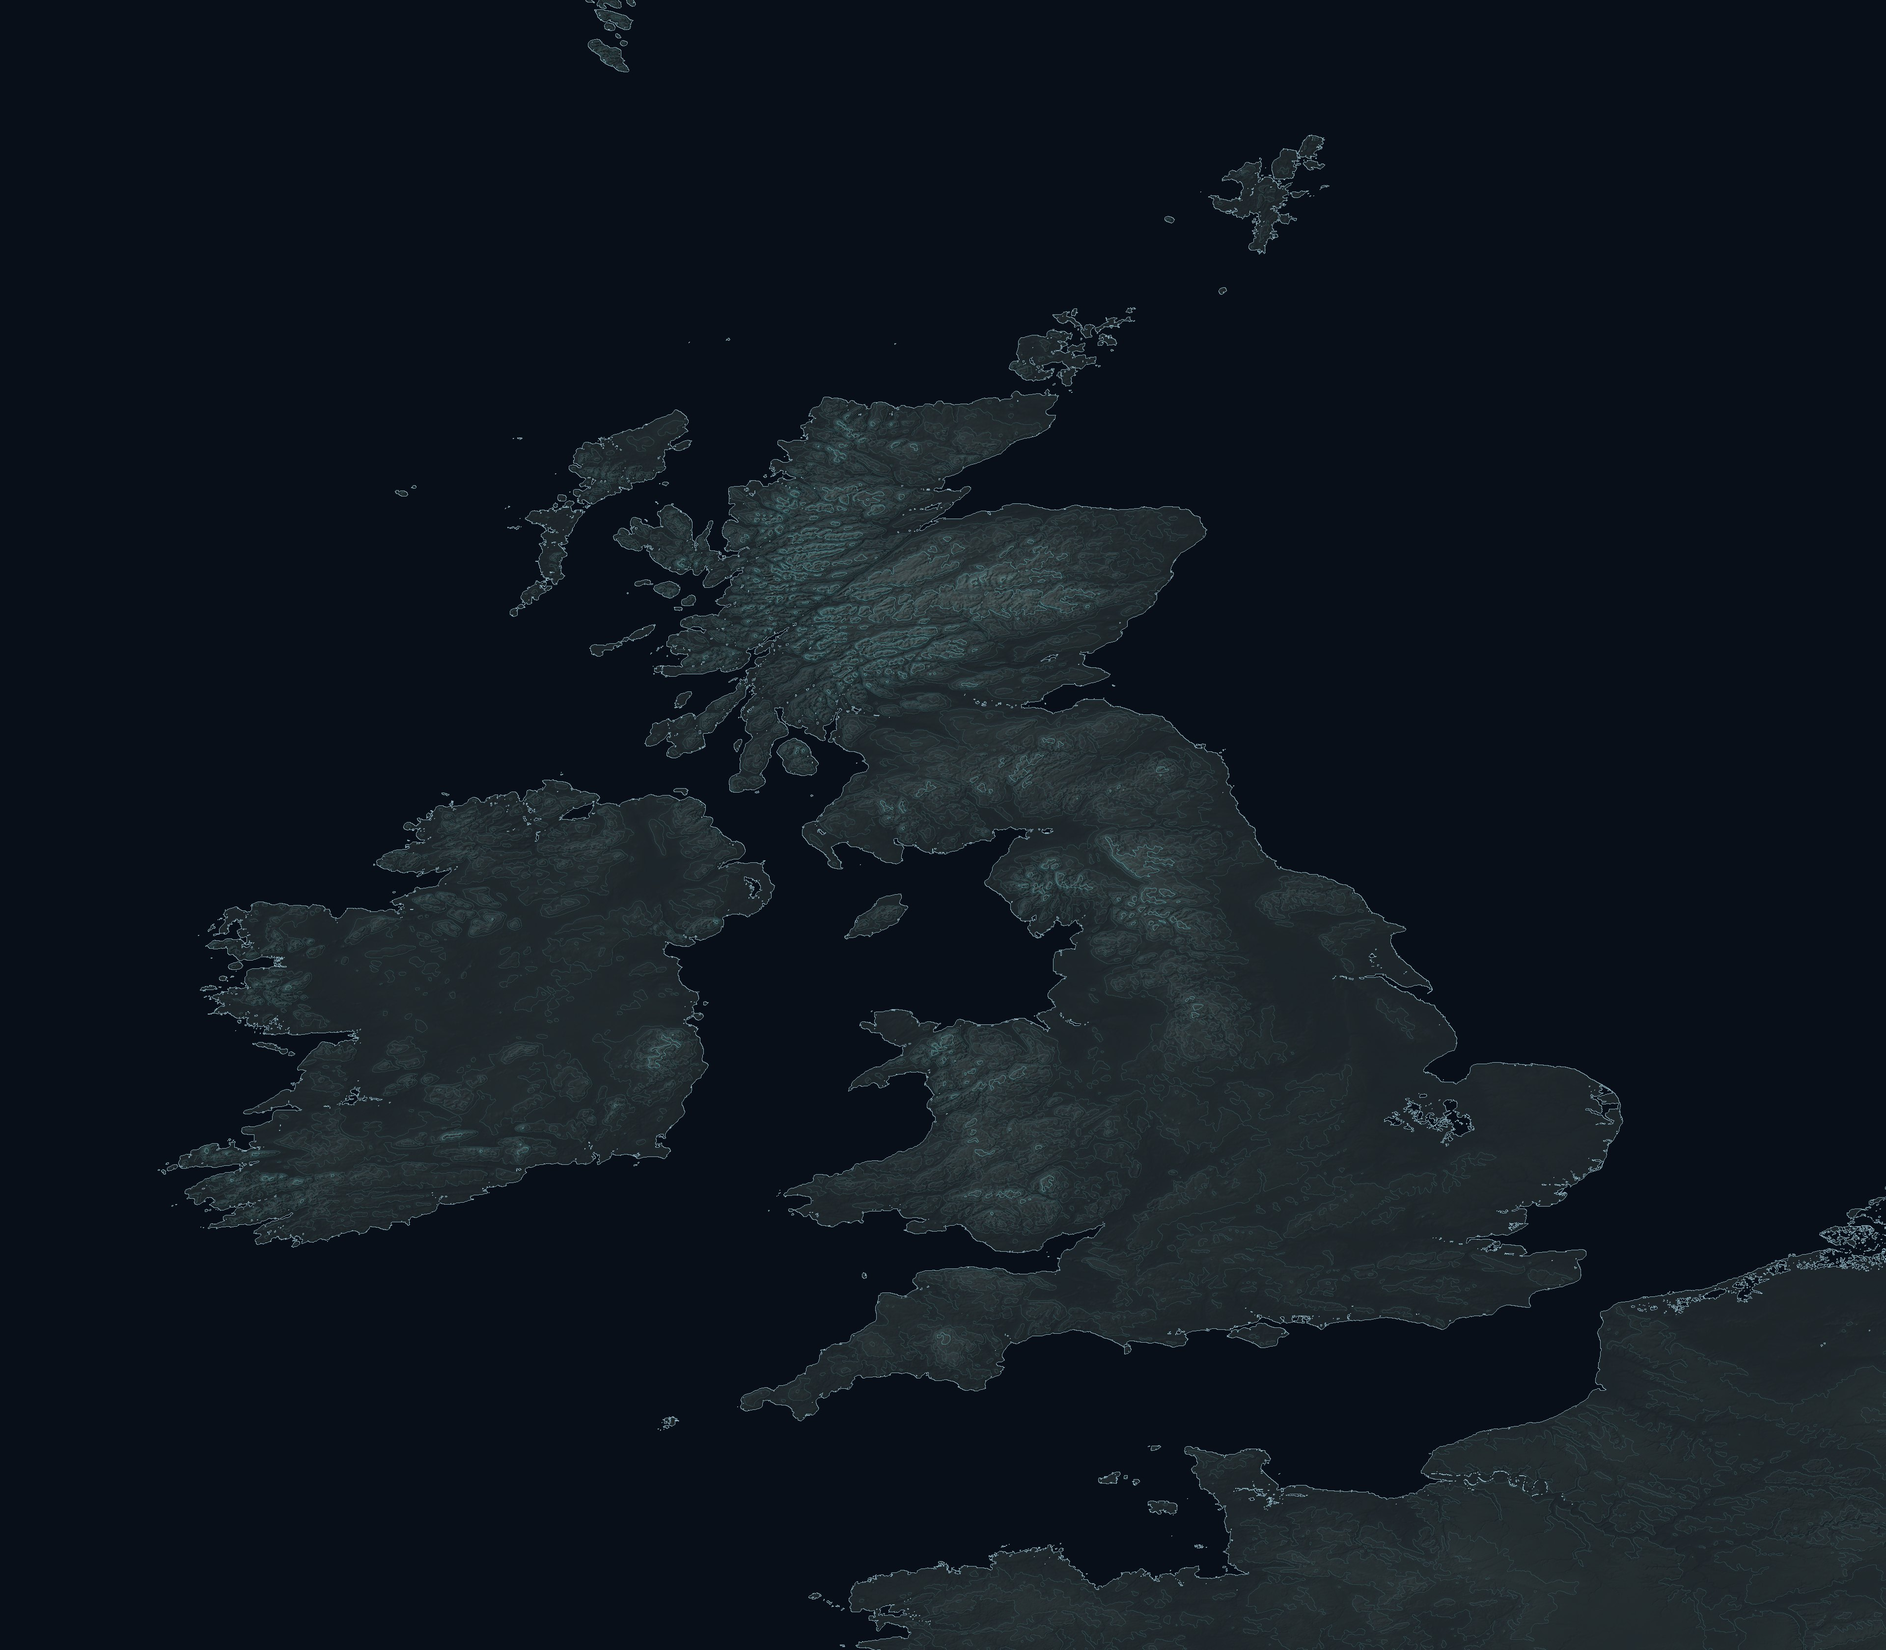
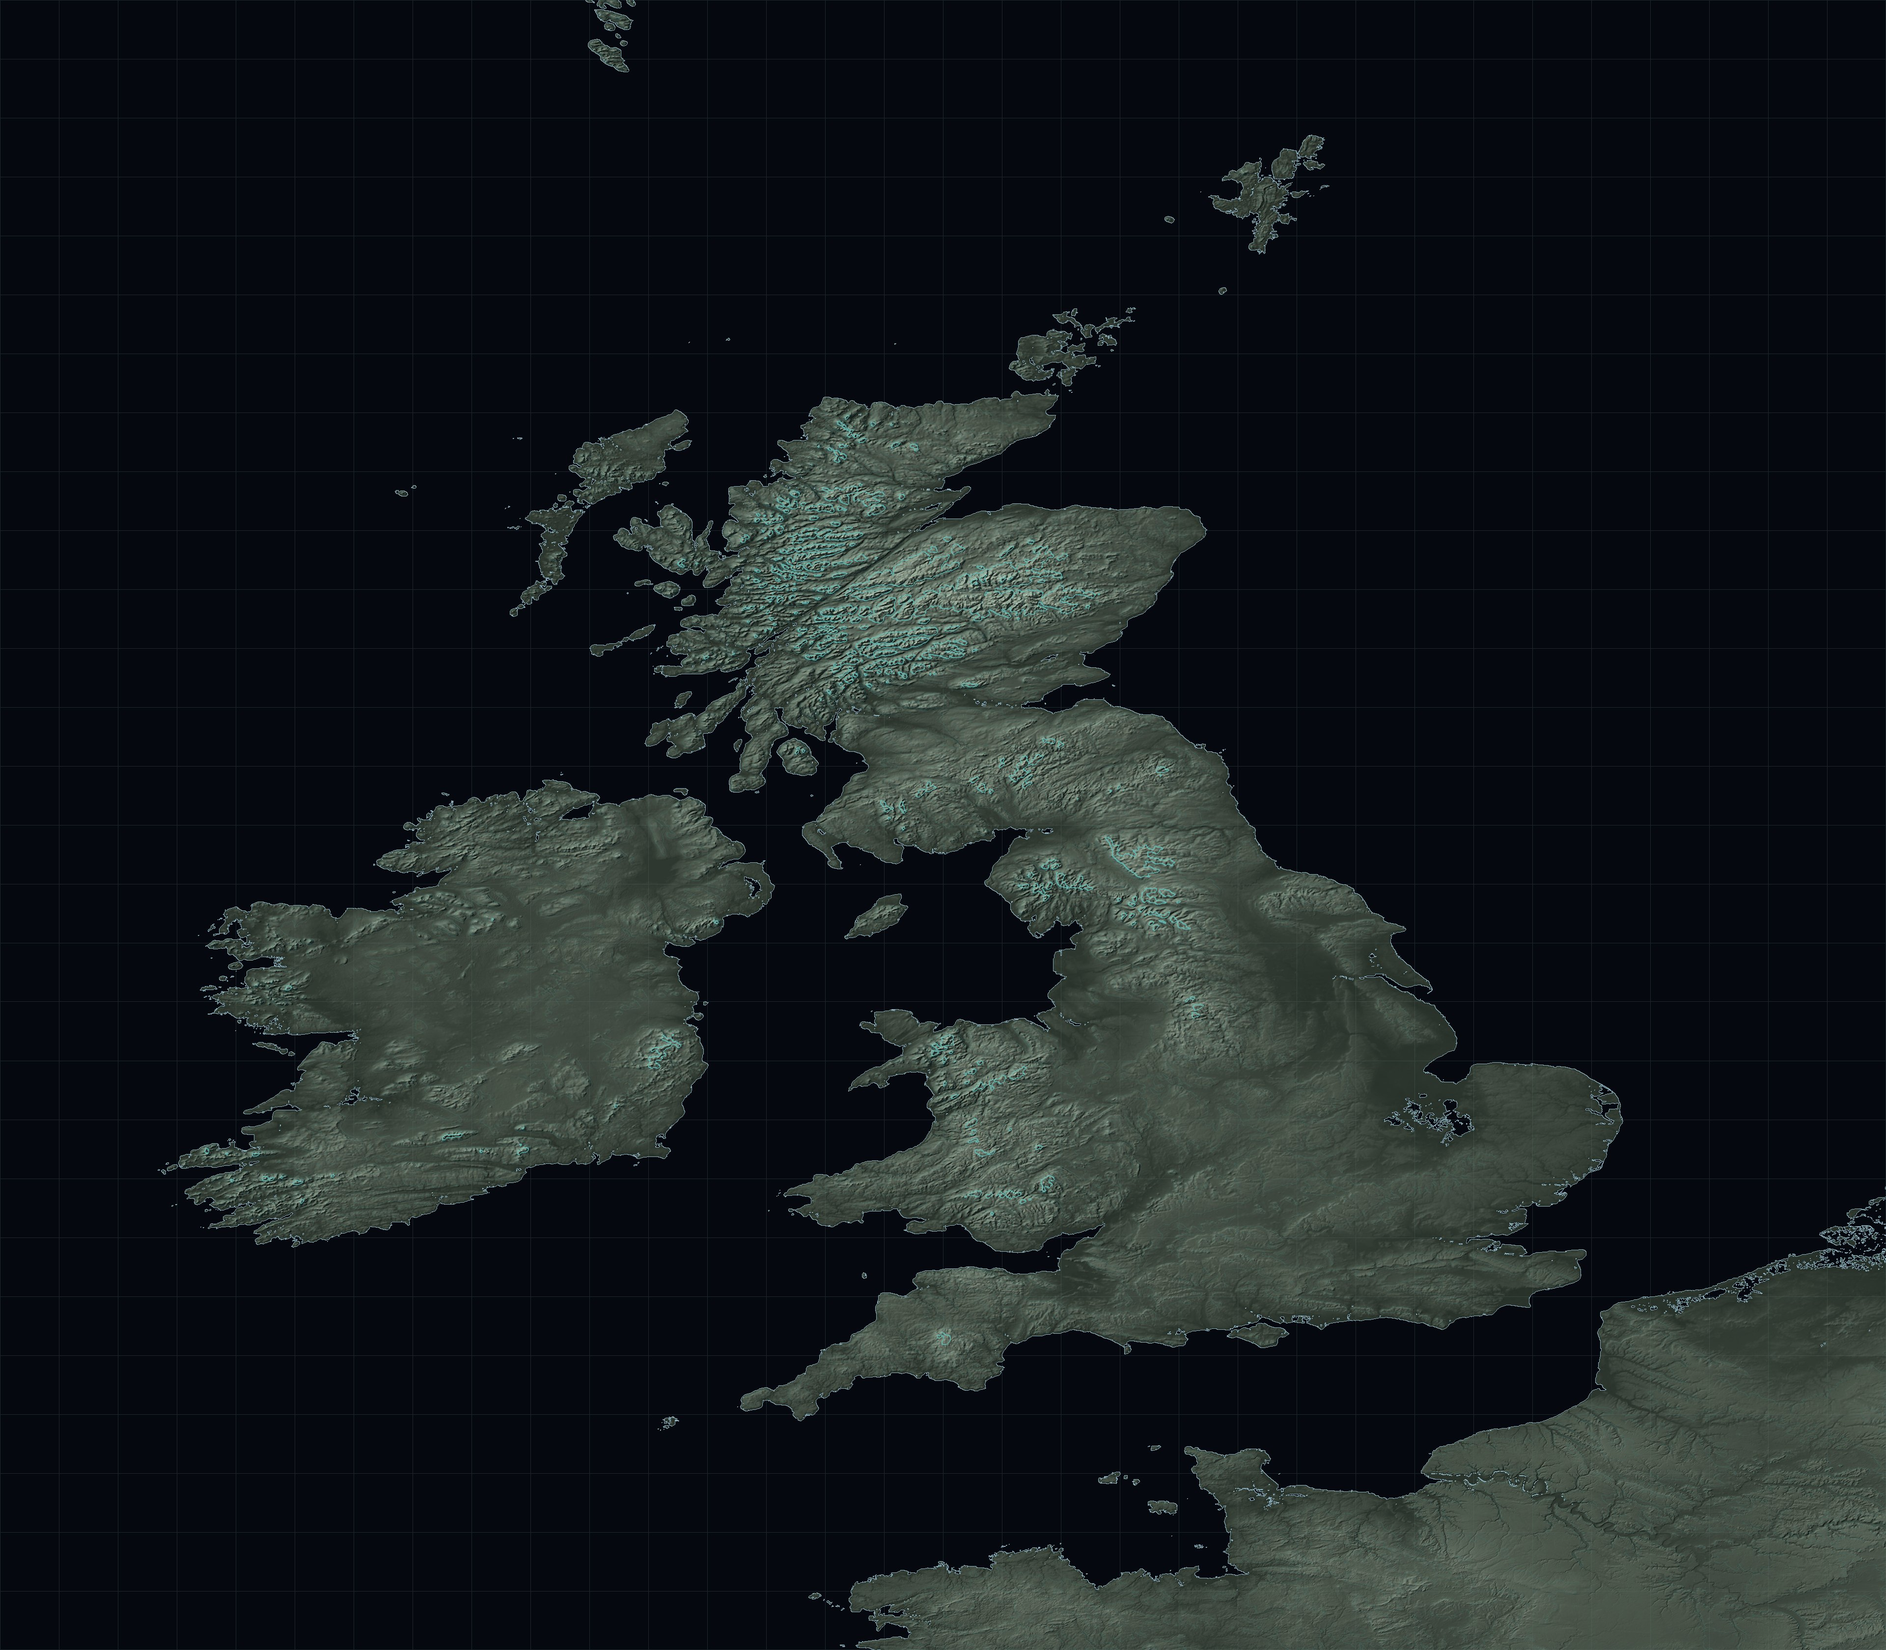
feat(heimdall): live traffic overlay; stronger tactical relief
- TRAFFIC chip: TomTom Traffic Flow (free key from VITE_TOMTOM_KEY in the git-ignored
  .env.local), zoom 7 tiles reprojected over the terrain box as for the rain radar and
  refreshed every 5 minutes while on; roads coloured by speed against free flow (green
  flowing, orange slow, red queuing), over the road lines, which fade while it shows.
- The tactical relief has deeper shadows and brighter lit slopes (z-factor 4.5), an
  olive-slate palette rising with height, bold index contours every 500 m and a faint
  half-degree reference grid. [FR-H-1] [FR-P3-3]

diff --git a/products/heimdall/ui/src/screens/OperatingPictureScreen.tsx b/products/heimdall/ui/src/screens/OperatingPictureScreen.tsx
@@ -22,6 +22,7 @@ import { AREA_LEGEND, BANDS, KIND_LEGEND, areaColour, bandOf, colourOf, isFixedK
 import { useStatus } from '../app/status';
 import { AlertsBell, AlertsDrawer, agoText } from '../app/alerts';
 import { radarLabel, useRadar, RADAR_BOX } from '../app/radar';
+import { trafficLabel, useTraffic } from '../app/traffic';
 import { useWatchlist, type Watchlist } from '../app/watchlist';
 import { AreaLayer, ToolLayer } from '../app/MapOverlays2D';
 import type { LatLon } from '../app/geoMath';
@@ -67,7 +68,7 @@ const HYDRO_2D = (() => {
 /** The map style the 3D view stores (tactical unless set otherwise). */
 const mapStyle2d = () => { try { const v = window.localStorage.getItem('heimdall.globe.imagery'); return v === 'satellite' || v === 'dark' ? v : 'tactical'; } catch { return 'tactical'; } };
 
-function Basemap({ region, radarUrl }: { region: HeimdallRegion; radarUrl?: string }) {
+function Basemap({ region, radarUrl, trafficUrl }: { region: HeimdallRegion; radarUrl?: string; trafficUrl?: string }) {
   const { west, east, south, north } = region;
   const lons: number[] = [];
   const lats: number[] = [];
@@ -101,6 +102,10 @@ function Basemap({ region, radarUrl }: { region: HeimdallRegion; radarUrl?: stri
       <path d={HYDRO_2D.motorways} fill="none" stroke="#3b82e0" strokeWidth={2.6} vectorEffect="non-scaling-stroke" />
       <path d={HYDRO_2D.rail} fill="none" stroke="#111" strokeOpacity={0.9} strokeWidth={3} vectorEffect="non-scaling-stroke" />
       <path d={HYDRO_2D.rail} fill="none" stroke="#f2f2f2" strokeWidth={1.4} strokeDasharray="5 5" vectorEffect="non-scaling-stroke" />
+      {/* Live traffic (TomTom), over the road lines. [FR-H-1] */}
+      {trafficUrl && (
+        <image href={trafficUrl} x={RADAR_BOX.west} y={-RADAR_BOX.north} width={RADAR_BOX.east - RADAR_BOX.west} height={RADAR_BOX.north - RADAR_BOX.south} preserveAspectRatio="none" />
+      )}
       <path d={HYDRO_2D.rivers} fill="none" stroke="#6eb9f5" strokeOpacity={0.95} strokeWidth={1.8} vectorEffect="non-scaling-stroke" />
       <path d={HYDRO_2D.lakes} fill="#5aa9e6" fillOpacity={0.35} stroke="#5aa9e6" strokeOpacity={0.85} strokeWidth={1} vectorEffect="non-scaling-stroke" />
       {lons.map((l) => <line key={'o' + l} x1={l} x2={l} y1={-north} y2={-south} stroke="var(--divider)" strokeWidth={1} vectorEffect="non-scaling-stroke" />)}
@@ -557,6 +562,8 @@ export function OperatingPictureScreen() {
   // Canvas tools, all off until asked for. [FR-H-1]
   const [radarOn, setRadarOn] = React.useState(false);
   const radar = useRadar(radarOn);
+  const [trafficOn, setTrafficOn] = React.useState(false);
+  const traffic = useTraffic(trafficOn);
   const [measuring, setMeasuring] = React.useState(false);
   const [measurePts, setMeasurePts] = React.useState<LatLon[]>([]);
   const [ringsOn, setRingsOn] = React.useState(false);
@@ -964,7 +971,7 @@ export function OperatingPictureScreen() {
       {view === '3d' && (
         <React.Suspense fallback={<div style={{ position: 'absolute', top: '40%', width: '100%', textAlign: 'center', ...mono, color: 'var(--text-faint)' }}>LOADING 3D VIEW…</div>}>
           <Globe3D tracks={visible} trails={globeTrails} selected={sel} path={selPath} hoverPath={hoverPath} pathsFirst={trailMins === 0 || trailMins >= 30} hover={hover} onSelect={select} onHover={setHover} bottomInset={bottomH}
-            areas={globeAreas} radar={radar.status === 'ready' ? radar.frame.canvas : null} sunTime={replayAt !== null ? replayAt * 1000 : Date.now()}
+            areas={globeAreas} radar={radar.status === 'ready' ? radar.frame.canvas : null} traffic={traffic.status === 'ready' ? traffic.frame.canvas : null} sunTime={replayAt !== null ? replayAt * 1000 : Date.now()}
             measuring={measuring} measure={measurePts} rings={rings} onSurface={addMeasure} markerScale={wall ? 1.6 : 1} flyRequest={flyRequest}
             onInteract={() => { pausedUntil.current = Date.now() + TOUR_PAUSE_MS; }} />
         </React.Suspense>
@@ -972,7 +979,7 @@ export function OperatingPictureScreen() {
 
       {view === '2d' && region && (
         <>
-          <Basemap region={region} radarUrl={radar.status === 'ready' ? radar.frame.url : undefined} />
+          <Basemap region={region} radarUrl={radar.status === 'ready' ? radar.frame.url : undefined} trafficUrl={traffic.status === 'ready' ? traffic.frame.url : undefined} />
           {areaTracks.length > 0 && <AreaLayer region={region} areas={areaTracks} selected={sel} />}
           <GraticuleLabels region={region} />
           <GeoRings region={region} height={canvasH} />
@@ -1175,6 +1182,8 @@ export function OperatingPictureScreen() {
       {(view === '3d' || region) && <div style={{ position: 'absolute', zIndex: 4, display: 'flex', gap: 6, flexWrap: 'wrap', ...(view === '3d' ? { top: 92, left: 12 } : { top: 12, right: 14 }) }}>
         <Chip on={radarOn} onClick={() => setRadarOn(!radarOn)} tone={radar.status === 'unavailable' ? 'var(--warn)' : undefined}
           label={radarOn ? 'Hide rain radar' : 'Show rain radar (RainViewer, needs the internet)'}>{radarLabel(radar)}</Chip>
+        <Chip on={trafficOn} onClick={() => setTrafficOn(!trafficOn)} tone={traffic.status === 'unavailable' ? 'var(--warn)' : undefined}
+          label={trafficOn ? 'Hide live traffic' : 'Show live traffic: green flowing, orange slow, red queuing (TomTom, needs the internet)'}>{trafficLabel(traffic)}</Chip>
         {(
           <Chip on={measuring} onClick={() => { if (measuring) { setMeasuring(false); setMeasurePts([]); } else setMeasuring(true); }} label="Measure: click two points; Escape clears">
             {measuring ? (measurePts.length < 2 ? `MEASURE · CLICK POINT ${measurePts.length + 1}` : 'MEASURE · ESC CLEARS') : 'MEASURE'}

diff --git a/products/heimdall/ui/src/app/traffic.ts b/products/heimdall/ui/src/app/traffic.ts
@@ -1,0 +1,119 @@
+/* Live road traffic for the UK and Ireland from TomTom Traffic Flow (free developer key,
+ * VITE_TOMTOM_KEY in products/heimdall/ui/.env.local, which git ignores), as one image in
+ * plain latitude/longitude over the same box as the terrain and imagery, so both views
+ * lay it straight down. [FR-H-1] [FR-P3-3]
+ *
+ * The "relative" flow tiles colour each road by current speed against its free-flow
+ * speed: green flowing, orange slow, red queuing, dark red stationary. Zoom 7 Web Mercator
+ * tiles covering the box are drawn into a mosaic, then reprojected row by row (as for the
+ * rain radar). Refreshed every 5 minutes while on (about 60 tiles a read, well inside the
+ * free daily allowance). Needs the internet; attribution "TomTom" wherever it shows. */
+import * as React from 'react';
+import { RADAR_BOX } from './radar';
+
+const ZOOM = 7;
+const TILE = 256;
+const OUT_W = 2048;
+const OUT_H = 1792;
+const REFRESH_MS = 5 * 60 * 1000;
+const KEY = (import.meta as { env?: Record<string, string | undefined> }).env?.VITE_TOMTOM_KEY;
+
+export interface TrafficFrame {
+  canvas: HTMLCanvasElement;
+  url: string;
+  /** When it was read, unix ms. */
+  at: number;
+}
+
+export type TrafficState =
+  | { status: 'off' }
+  | { status: 'loading' }
+  | { status: 'ready'; frame: TrafficFrame }
+  | { status: 'unavailable'; reason: string };
+
+const tileX = (lon: number, z: number) => ((lon + 180) / 360) * 2 ** z;
+const tileY = (lat: number, z: number) => {
+  const r = (lat * Math.PI) / 180;
+  return ((1 - Math.log(Math.tan(r) + 1 / Math.cos(r)) / Math.PI) / 2) * 2 ** z;
+};
+
+function loadImage(src: string): Promise<HTMLImageElement> {
+  return new Promise((resolve, reject) => {
+    const img = new Image();
+    img.crossOrigin = 'anonymous';
+    img.onload = () => resolve(img);
+    img.onerror = () => reject(new Error('tile failed'));
+    img.src = src;
+  });
+}
+
+export async function loadTraffic(signal?: AbortSignal): Promise<TrafficFrame> {
+  if (!KEY) throw new Error('no TomTom key (VITE_TOMTOM_KEY)');
+  const { west, east, south, north } = RADAR_BOX;
+  const x0 = Math.floor(tileX(west, ZOOM)), x1 = Math.floor(tileX(east, ZOOM));
+  const y0 = Math.floor(tileY(north, ZOOM)), y1 = Math.floor(tileY(south, ZOOM));
+  const mosaic = document.createElement('canvas');
+  mosaic.width = (x1 - x0 + 1) * TILE;
+  mosaic.height = (y1 - y0 + 1) * TILE;
+  const mctx = mosaic.getContext('2d')!;
+  const jobs: Promise<void>[] = [];
+  for (let x = x0; x <= x1; x++) {
+    for (let y = y0; y <= y1; y++) {
+      jobs.push(loadImage(`https://api.tomtom.com/traffic/map/4/tile/flow/relative/${ZOOM}/${x}/${y}.png?key=${KEY}&tileSize=${TILE}&thickness=8`)
+        .then((img) => { mctx.drawImage(img, (x - x0) * TILE, (y - y0) * TILE); }));
+    }
+  }
+  const done = await Promise.allSettled(jobs);
+  if (done.every((d) => d.status === 'rejected')) throw new Error('traffic tiles unreachable');
+  if (signal?.aborted) throw new Error('aborted');
+  const out = document.createElement('canvas');
+  out.width = OUT_W;
+  out.height = OUT_H;
+  const ctx = out.getContext('2d')!;
+  const sx0 = (tileX(west, ZOOM) - x0) * TILE;
+  const sw = (tileX(east, ZOOM) - tileX(west, ZOOM)) * TILE;
+  for (let row = 0; row < OUT_H; row++) {
+    const lat = north - ((row + 0.5) / OUT_H) * (north - south);
+    const sy = (tileY(lat, ZOOM) - y0) * TILE;
+    ctx.drawImage(mosaic, sx0, Math.floor(sy), sw, 1, 0, row, OUT_W, 1);
+  }
+  return { canvas: out, url: out.toDataURL('image/png'), at: Date.now() };
+}
+
+/** Live traffic while `on`, refreshed every 5 minutes. */
+export function useTraffic(on: boolean): TrafficState {
+  const [state, setState] = React.useState<TrafficState>({ status: 'off' });
+  React.useEffect(() => {
+    if (!on) {
+      setState({ status: 'off' });
+      return;
+    }
+    let live = true;
+    let ctrl = new AbortController();
+    const read = () => {
+      ctrl.abort();
+      ctrl = new AbortController();
+      loadTraffic(ctrl.signal)
+        .then((frame) => { if (live) setState({ status: 'ready', frame }); })
+        .catch((err) => { if (live) setState((s) => (s.status === 'ready' ? s : { status: 'unavailable', reason: err instanceof Error ? err.message : String(err) })); });
+    };
+    setState({ status: 'loading' });
+    read();
+    const timer = window.setInterval(read, REFRESH_MS);
+    return () => {
+      live = false;
+      ctrl.abort();
+      window.clearInterval(timer);
+    };
+  }, [on]);
+  return state;
+}
+
+export function trafficLabel(s: TrafficState): string {
+  switch (s.status) {
+    case 'off': return 'TRAFFIC';
+    case 'loading': return 'TRAFFIC · LOADING';
+    case 'unavailable': return 'TRAFFIC UNAVAILABLE';
+    case 'ready': return `TRAFFIC ${new Date(s.frame.at).toISOString().slice(11, 16)}Z · TOMTOM`;
+  }
+}

diff --git a/products/heimdall/ui/src/app/globe/GlobeView.ts b/products/heimdall/ui/src/app/globe/GlobeView.ts
@@ -419,6 +419,8 @@ export class GlobeView {
   private readonly drapeCanvas: HTMLCanvasElement;
   private readonly drapeTexture: THREE.CanvasTexture;
   private readonly radarMesh: THREE.Mesh;
+  private readonly trafficMesh: THREE.Mesh;
+  private trafficTexture: THREE.Texture | null = null;
   private radarTexture: THREE.Texture | null = null;
   private readonly sun = { value: new THREE.Vector3(1, 0, 0) };
   private readonly night = { value: 1 };
@@ -523,7 +525,10 @@ export class GlobeView {
     (this.radarMesh.material as THREE.MeshBasicMaterial).opacity = 0.75;
     this.radarMesh.renderOrder = 1;
     this.radarMesh.visible = false;
-    this.scene.add(this.radarMesh, this.areaDrape);
+    this.trafficMesh = new THREE.Mesh(this.drapeGeometry, drapeMat(null, -4));
+    this.trafficMesh.renderOrder = 9; // over the road lines, which it replaces while on
+    this.trafficMesh.visible = false;
+    this.scene.add(this.radarMesh, this.areaDrape, this.trafficMesh);
     this.buildTerrain();
     this.loadHiresTerrain();
     const atmosphere = new THREE.Mesh(
@@ -761,6 +766,28 @@ export class GlobeView {
   setAreas(areas: GlobeArea[]): void {
     this.areas = areas;
     this.buildAreas();
+    this.requestRender();
+  }
+
+  /** Live traffic over the terrain box, or null to hide it. While it shows, the road
+   *  lines fade so the traffic colours lead. [FR-H-1] */
+  setTraffic(canvas: HTMLCanvasElement | null): void {
+    this.trafficTexture?.dispose();
+    this.trafficTexture = null;
+    const m = this.trafficMesh.material as THREE.MeshBasicMaterial;
+    if (canvas) {
+      this.trafficTexture = new THREE.CanvasTexture(canvas);
+      this.trafficTexture.colorSpace = THREE.SRGBColorSpace;
+      this.trafficTexture.anisotropy = Math.min(8, this.renderer.capabilities.getMaxAnisotropy());
+    }
+    m.map = this.trafficTexture;
+    m.needsUpdate = true;
+    this.trafficMesh.visible = !!canvas;
+    for (const f of this.fatLines.slice(2, 6)) {
+      const lm = f.obj.material as LineMaterial;
+      lm.userData.baseOpacity ??= lm.opacity;
+      lm.opacity = lm.userData.baseOpacity * (canvas ? 0.3 : 1);
+    }
     this.requestRender();
   }
 

diff --git a/products/heimdall/ui/src/app/globe/Globe3D.tsx b/products/heimdall/ui/src/app/globe/Globe3D.tsx
@@ -77,6 +77,8 @@ export interface Globe3DProps {
   areas?: GlobeArea[];
   /** The radar image over the terrain box, or null. */
   radar?: HTMLCanvasElement | null;
+  /** Live traffic over the terrain box, or null. */
+  traffic?: HTMLCanvasElement | null;
   /** The time the night side is shaded for (unix ms): now, or the replay time. */
   sunTime?: number;
   /** MEASURE: surface taps go to `onSurface` instead of selecting. */
@@ -92,7 +94,7 @@ export interface Globe3DProps {
   onInteract?: () => void;
 }
 
-export function Globe3D({ tracks, trails, selected, path, hoverPath = null, pathsFirst = false, hover, onSelect, onHover, bottomInset = 0, areas = [], radar = null, sunTime, measuring = false, measure = [], rings = null, onSurface, markerScale = 1, flyRequest = null, onInteract }: Globe3DProps) {
+export function Globe3D({ tracks, trails, selected, path, hoverPath = null, pathsFirst = false, hover, onSelect, onHover, bottomInset = 0, areas = [], radar = null, traffic = null, sunTime, measuring = false, measure = [], rings = null, onSurface, markerScale = 1, flyRequest = null, onInteract }: Globe3DProps) {
   const measureRef = React.useRef<HTMLDivElement>(null);
   const ringLabelRefs = React.useRef<(HTMLSpanElement | null)[]>([]);
   const hostRef = React.useRef<HTMLDivElement>(null);
@@ -208,6 +210,7 @@ export function Globe3D({ tracks, trails, selected, path, hoverPath = null, path
   const areaSig = areas.map((a) => a.id).join('|');
   React.useEffect(() => { viewRef.current?.setAreas(areasRef.current); }, [areaSig]);
   React.useEffect(() => { viewRef.current?.setRadar(radar); }, [radar]);
+  React.useEffect(() => { viewRef.current?.setTraffic(traffic); }, [traffic]);
   // Shade for the minute (a frame per minute is plenty for the terminator).
   const sunMinute = Math.floor((sunTime ?? Date.now()) / 60000);
   React.useEffect(() => { viewRef.current?.setSunTime(sunMinute * 60000); }, [sunMinute]);
